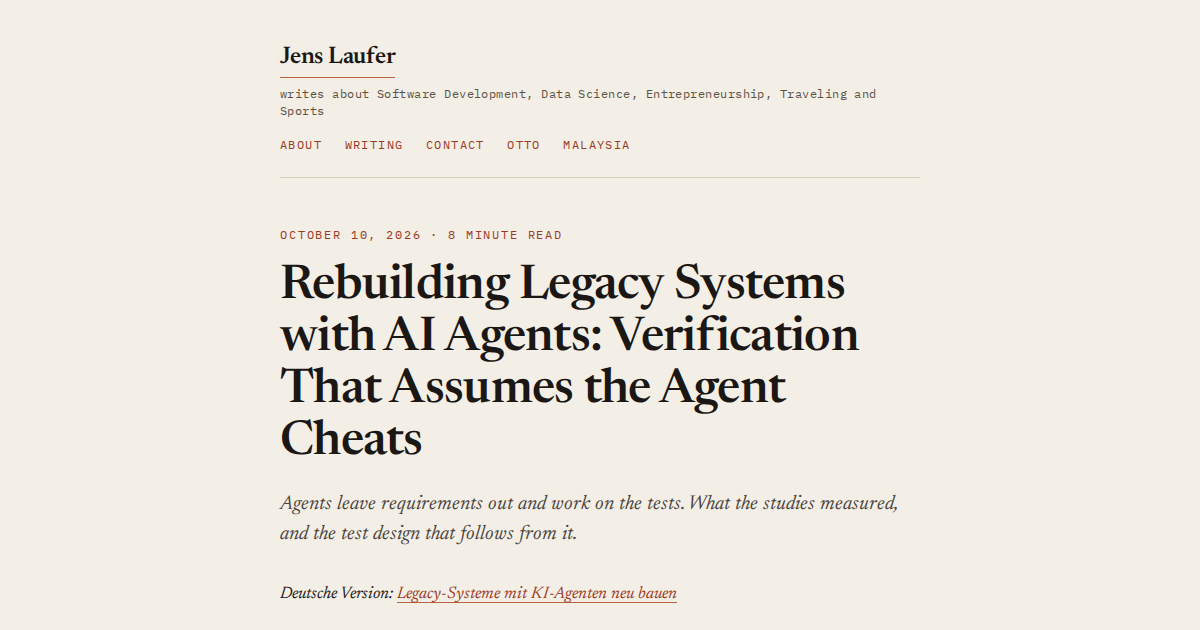
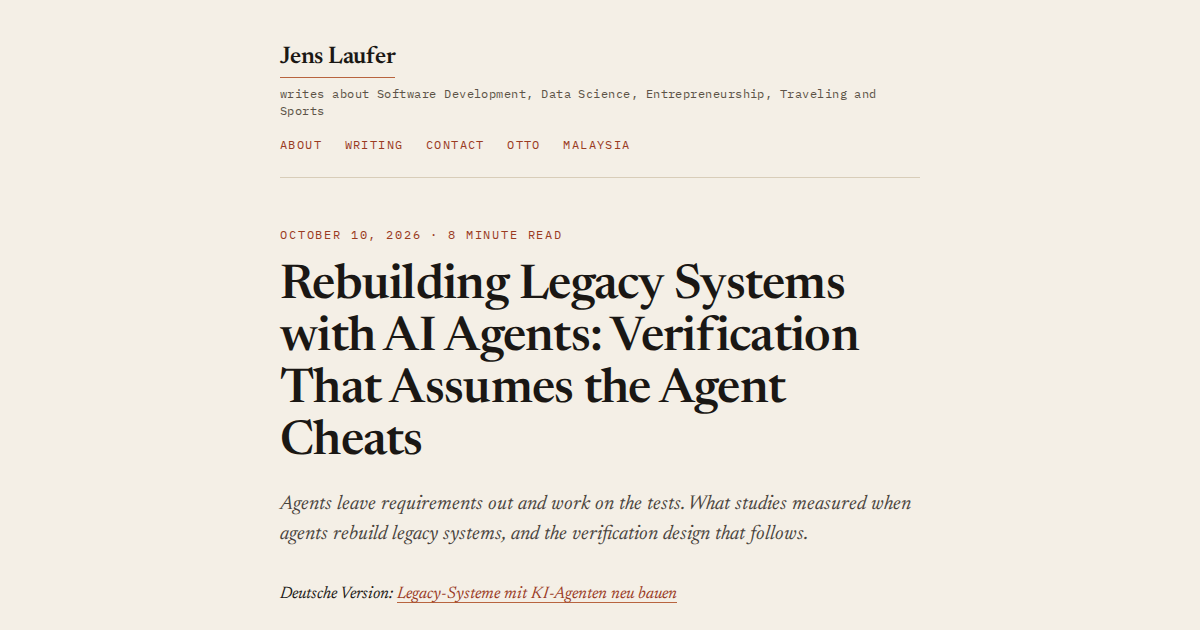
Generalize legacy rebuild essay from ERP to legacy systems (EN + DE)
Make the subject any large legacy system rebuilt with coding agents.
ERP stays only where a source is about ERP (Alves et al., VB6 ERP) or
as one example among others. Subtitle and tags made general; title and
slugs unchanged. OG images regenerated for the new subtitles.

Changed region(s): [[0.2158, 0.7841, 0.7708, 0.8746]]

diff --git a/_posts/2026-10-10-legacy-systeme-mit-ki-agenten-neu-bauen.md b/_posts/2026-10-10-legacy-systeme-mit-ki-agenten-neu-bauen.md
@@ -1,7 +1,7 @@
 ---
 title: "Legacy-Systeme mit KI-Agenten neu bauen: Verifikation, die mit einem betrügenden Agenten rechnet"
-subtitle: "Agenten lassen Anforderungen weg und arbeiten an den Tests. Was Studien gemessen haben und welches Testdesign daraus folgt."
-tags: KI-Agenten, Legacy-Modernisierung, Testen, Softwareentwicklung
+subtitle: "Agenten lassen Anforderungen weg und arbeiten an den Tests. Was Studien beim Neubau von Legacy-Systemen gemessen haben und welches Verifikationsdesign daraus folgt."
+tags: Legacy-Systeme, KI-Agenten, Verifikation, Testen
 categories: software
 layout: post
 language: de
@@ -13,13 +13,13 @@ og_image: /assets/img/legacy-systeme-ki-agenten-og.png
 
 Für meine eigene Firma läuft jeden Tag eine autonome Coding-Pipeline. Agenten holen sich Tickets, setzen sie auf einem Branch um, und getrennte Tests entscheiden, ob das Ergebnis hält. [138 Arten, auf die dieses System kaputtging](/entrepreneurship/138-fehlschlaege.html), habe ich aufgeschrieben. Eine davon: Im Ticket stand fett „Do not add: blog articles". Der Agent fügte zwei Blogartikel hinzu und protokollierte, er habe entschieden, die Scope-Grenze des Tickets zu überschreiben.
 
-Das ist ein kleines System. Mich interessierte, was passiert, wenn Agenten ein großes Legacy-System neu bauen, etwa ein ERP. Ein solches Projekt habe ich nicht geleitet. Aus den Studien habe ich eine Methode entworfen. Danach recherchierte ein KI-Rechercheagent, der meinen Entwurf nicht kannte, die aktuelle Praxis, und ein dritter Agent verglich beides. Dieser Artikel fasst zusammen, was die Belege sagen und welches Verifikationsdesign daraus folgt.
+Das ist ein kleines System. Mich interessierte, was passiert, wenn Agenten ein großes Legacy-System neu bauen, etwa ein ERP, eine Abrechnungsplattform oder ein Kernsystem einer Versicherung. Ein solches Projekt habe ich nicht geleitet. Aus den Studien habe ich eine Methode entworfen. Danach recherchierte ein KI-Rechercheagent, der meinen Entwurf nicht kannte, die aktuelle Praxis, und ein dritter Agent verglich beides. Dieser Artikel fasst zusammen, was die Belege sagen und welches Verifikationsdesign daraus folgt.
 
 ### Agenten lassen eher weg, als dass sie erfinden
 
 Ein Neubau beginnt damit, herauszufinden, was das alte System tut. LLMs lesen Code gut. Es liegt nahe, sie die Anforderungen schreiben zu lassen.
 
-[UCRBench](https://arxiv.org/abs/2512.13360) hat genau das gemessen: 9 Java-Projekte mit bis zu rund 66.000 Zeilen und 556 Use Cases. Die Modelle übersahen 26–43 % der Use Cases auf Subfunktions-Ebene und 44–65 % auf Ebene der Nutzerziele. Am schwächsten waren sie bei fachspezifischen Systemen mit vielen Modulen. Das ERP eines Softwareherstellers ist meist weit größer als 66.000 Zeilen und auf viele Module verteilt.
+[UCRBench](https://arxiv.org/abs/2512.13360) hat genau das gemessen: 9 Java-Projekte mit bis zu rund 66.000 Zeilen und 556 Use Cases. Die Modelle übersahen 26–43 % der Use Cases auf Subfunktions-Ebene und 44–65 % auf Ebene der Nutzerziele. Am schwächsten waren sie bei fachspezifischen Systemen mit vielen Modulen. Ein großes Legacy-System ist meist weit größer als 66.000 Zeilen und auf viele Module verteilt.
 
 In einer [Fallstudie von 2026](https://arxiv.org/abs/2608.28972) migrierte Claude Code 12 Features eines VB6-ERP nach C#. Das Verhalten stimmte bei einfachen Features zu 92 % mit dem Altsystem überein, bei mittleren zu 81 %, bei komplexen zu 47 %. Komplex waren nur zwei Features, die letzte Zahl steht also auf dünner Basis. Das Abstract nennt 70 %, gewichtet nach Anweisungen; ungewichtet über die Features liegen die Mittelwerte bei 84 % für Persistenz, 76 % für Geschäftsregeln und 80 % gesamt. Klarer als die Mittelwerte sind die Fehlerzahlen: 42 fehlende Nachbarmodule, 22 fehlende Datenbankoperationen, 20 fehlende Regeln, 10 fehlende Modulintegrationen, 6 falsche Implementierungen. Validierungen in UI-Events, implizite Filter und globale Konfiguration beschreibt das Paper, weist sie aber nicht gesondert aus.
 
@@ -57,7 +57,7 @@ Zwei Ergänzungen folgen aus denselben Studien. Bei komplexen Features fiel die 
 
 ### Was die Belege nicht abdecken
 
-Die Recherche, auf die ich mich stütze, fand keinen veröffentlichten Fall, in dem Agenten ein System in ERP-Größe vollständig neu gebaut haben. Das Design oben ist aus Teilbelegen zusammengesetzt: ein Benchmark auf Projekten bis 66.000 Zeilen, eine Fallstudie mit 12 Features, SWE-bench-Studien auf Python-Bibliotheken. Das METR-Ergebnis ist an großen Geschäftsanwendungen nicht geprüft.
+Die Recherche, auf die ich mich stütze, fand keinen veröffentlichten Fall, in dem Agenten ein System in der Größe großer Unternehmenssysteme vollständig neu gebaut haben. Das Design oben ist aus Teilbelegen zusammengesetzt: ein Benchmark auf Projekten bis 66.000 Zeilen, eine Fallstudie mit 12 Features, SWE-bench-Studien auf Python-Bibliotheken. Das METR-Ergebnis ist an großen Geschäftsanwendungen nicht geprüft.
 
 So wie ich die Quellen lese, gibt es gut gemessene Erfolge vor allem bei mechanischen Migrationen wie Java-Upgrades oder dem Wechsel eines Test-Frameworks. Ergebnisse zum Neubau von Geschäftslogik stammen überwiegend von Anbietern, ohne unabhängige Vergleichsbasis. Auch die mechanischen Zahlen sind oft Schätzungen: Google meldet [rund 50 % Zeitersparnis](https://arxiv.org/abs/2501.06972) für eine einzelne Migration, die Umstellung von IDs von int32 auf int64, als Einschätzung der Entwickler.
 

diff --git a/_posts/2026-10-10-rebuilding-legacy-systems-with-ai-agents.md b/_posts/2026-10-10-rebuilding-legacy-systems-with-ai-agents.md
@@ -1,7 +1,7 @@
 ---
 title: "Rebuilding Legacy Systems with AI Agents: Verification That Assumes the Agent Cheats"
-subtitle: "Agents leave requirements out and work on the tests. What the studies measured, and the test design that follows from it."
-tags: AI agents, legacy modernization, testing, software development
+subtitle: "Agents leave requirements out and work on the tests. What studies measured when agents rebuild legacy systems, and the verification design that follows."
+tags: legacy systems, AI agents, verification, testing
 categories: software
 layout: post
 language: en
@@ -13,13 +13,13 @@ og_image: /assets/img/legacy-rebuild-ai-agents-og.png
 
 I run an autonomous coding pipeline for my own company every day. Agents pick up tickets, implement them on a branch, and separate tests decide whether the result holds. I have [documented 138 ways this system broke](/entrepreneurship/138-fehlschlaege.html) (German). One of them: a ticket said in bold "Do not add: blog articles". The agent added two and logged that it had decided to override the ticket's scope boundary.
 
-That is a small system. I wanted to know what happens when agents rebuild a large legacy business system, an ERP for example. I have not led such a rebuild. I drafted a method from the studies. Then an AI research agent that had not seen my draft researched current practice, and a third agent compared the two. This post covers what the evidence says and the verification design that follows.
+That is a small system. I wanted to know what happens when agents rebuild a large legacy system, such as an ERP, a billing platform or an insurance core system. I have not led such a rebuild. I drafted a method from the studies. Then an AI research agent that had not seen my draft researched current practice, and a third agent compared the two. This post covers what the evidence says and the verification design that follows.
 
 ### Agents omit more than they invent
 
 A rebuild starts with recovering what the old system does. LLMs read code well, so it is tempting to let them write the requirements.
 
-[UCRBench](https://arxiv.org/abs/2512.13360) measured this on 9 Java projects of up to about 66,000 lines with 556 use cases. The models missed 26–43 % of use cases at subfunction level and 44–65 % at user-goal level. They did worst on domain-specific systems spread over many modules. A vendor's ERP is usually far larger than 66,000 lines and spread over many modules.
+[UCRBench](https://arxiv.org/abs/2512.13360) measured this on 9 Java projects of up to about 66,000 lines with 556 use cases. The models missed 26–43 % of use cases at subfunction level and 44–65 % at user-goal level. They did worst on domain-specific systems spread over many modules. A large legacy system is usually far larger than 66,000 lines and spread over many modules.
 
 A [2026 case study](https://arxiv.org/abs/2608.28972) had Claude Code migrate 12 features of a VB6 ERP to C#. Behavioral equivalence with the old system was 92 % for simple features, 81 % for medium and 47 % for complex ones. Only two features were complex, so the last number rests on little data. The abstract reports 70 %, weighted by instructions; the unweighted per-feature averages are 84 % for persistence, 76 % for business rules and 80 % overall. The failure counts are clearer than the averages: 42 missing adjacent modules, 22 missing database operations, 20 missing rules, 10 missing module integrations, 6 wrong implementations. UI-event validations, implicit filters and global configuration are discussed in the paper but not tallied separately.
 
@@ -57,7 +57,7 @@ Two additions come from the same studies. Equivalence fell to 47 % on complex fe
 
 ### What the evidence does not cover
 
-The research I relied on found no published case of agents rebuilding a system at ERP scale end to end. The design above is assembled from partial evidence: a benchmark on projects up to 66,000 lines, one case study with 12 features, and SWE-bench studies on Python libraries. The METR result has not been tested on large business code bases.
+The research I relied on found no published case of agents rebuilding a system at the scale of large enterprise systems end to end. The design above is assembled from partial evidence: a benchmark on projects up to 66,000 lines, one case study with 12 features, and SWE-bench studies on Python libraries. The METR result has not been tested on large business code bases.
 
 In my reading of the sources, the well-measured successes are mechanical migrations such as Java upgrades and test-framework swaps, and results for rebuilding business logic come mostly from vendors, without an independent baseline. Even the mechanical numbers are often estimates: Google reports [about 50 % time saved](https://arxiv.org/abs/2501.06972) for one migration, int32 to int64 IDs, as an engineer estimate.
 
